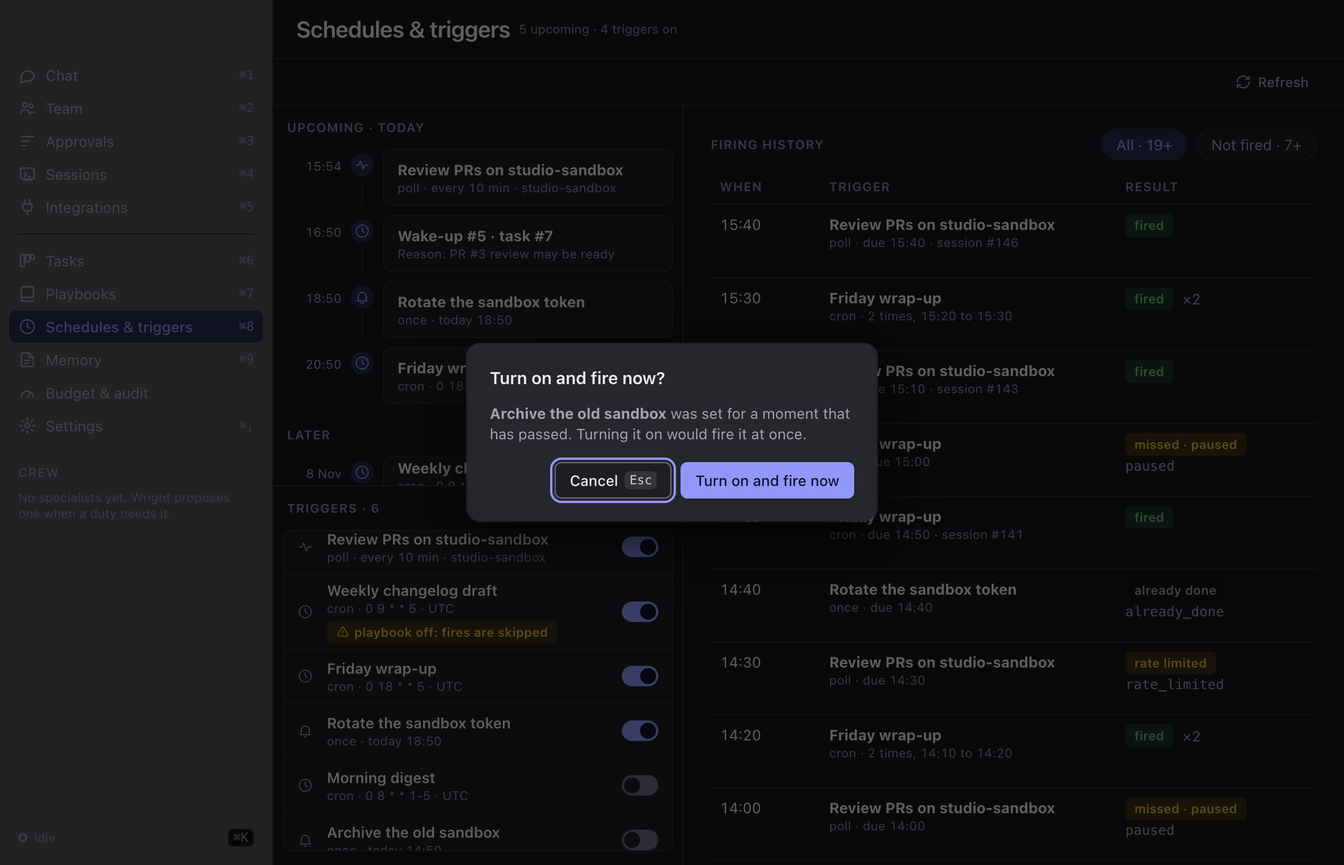
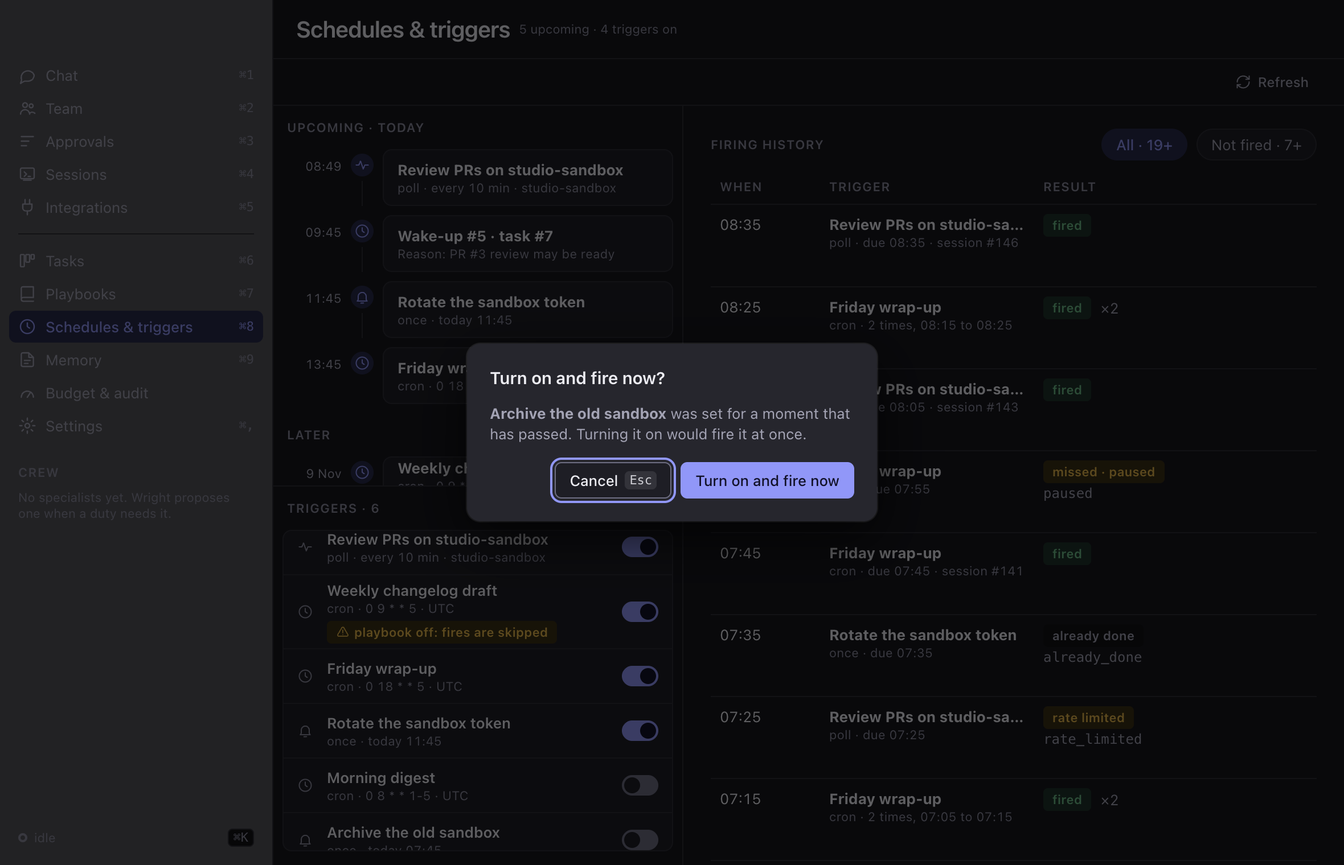
fix(app): schedules' Result chip shows its whole text at default and minimum width
The "playbook off: fires are skipped" chip was cut at the window edge:
a fixed 176px Result column, a nowrap badge and an overflow-hidden cell.
The Result column is now 248px at the default size, so the chip fits on
one line. Below 1140px the When/Result columns and the padding shrink,
the chip wraps inside a scoped .schedules-result .badge override, and
rows are a fixed 104px, so the table fits its pane at 900x560. A refetch
still moves no row.

The e2e spec measures every chip inside its cell and the window, light
and dark, at both sizes. It checks header/column alignment and that no
row moves on a count change at 900px. The evidence adds the
populated-skipped and populated-skipped-min pairs (18 files).

Closes 2026-11-02-schedules-result-chip-fits-its-column

diff --git a/app/e2e/schedules.spec.ts b/app/e2e/schedules.spec.ts
@@ -36,8 +36,8 @@ import { SCHEDULES_TEST_IDS as IDS } from "../src/screens/schedules/model";
 const EVIDENCE_DIR = fileURLToPath(new URL("../../docs/evidence/phase-7-polish/schedules/", import.meta.url));
 const README = join(EVIDENCE_DIR, "README.md");
 const THEMES = ["light", "dark"] as const;
-/** The mockup's states (`schedules-<state>`) and the two this screen adds to them, as the file names have them. */
-const STATES = ["empty", "loading", "populated", "not-fired", "confirm", "error", "unreachable"] as const;
+/** The mockup's states (`schedules-<state>`) and the ones this screen adds to them (the confirm, and the skipped fires' chip at the default and the minimum window size), as the file names have them. */
+const STATES = ["empty", "loading", "populated", "populated-skipped", "populated-skipped-min", "not-fired", "confirm", "error", "unreachable"] as const;
 
 /** When this run began, for the guard that the tracked evidence dir is untouched without `SCHEDULES_EVIDENCE`. */
 const RUN_START = Date.now();
@@ -125,6 +125,129 @@ async function boxes(page: Page, id: string): Promise<(({ x: number; y: number; 
 }
 
 const switchNamed = (page: Page, name: string): Locator => page.getByRole("switch", { name });
+
+/** Resize the already-launched window (the same path as `settings.spec.ts`) and wait until the page has that inner size. */
+async function resizeWindow(page: Page, width: number, height: number): Promise<void> {
+  await app?.evaluate(({ BrowserWindow }, size) => BrowserWindow.getAllWindows()[0]?.setSize(size.width, size.height), { width, height });
+  await expect.poll(() => page.evaluate(() => [window.innerWidth, window.innerHeight]), { message: `the window is ${width}x${height}` }).toEqual([width, height]);
+  await settle(page);
+}
+
+/** Page the all-triggers history twice, so the poll's four `playbook_not_enabled` misses (page two of the fixture) are rows. */
+async function pageToSkipped(page: Page): Promise<Locator> {
+  for (const shown of ["All · 23+", "All · 36+"]) {
+    await byId(page, IDS.loadOlder).click();
+    await expect(byId(page, IDS.filterAll)).toHaveText(shown);
+  }
+  const skipped = byId(page, IDS.allFire).and(page.locator('[data-reason="playbook_not_enabled"]'));
+  await expect(skipped.first().getByTestId(IDS.fireBadge)).toHaveText("playbook off: fires are skipped");
+  return skipped;
+}
+
+interface ChipReport {
+  /** The `.badge` elements measured (one per `IDS.fireBadge`). */
+  readonly measured: number;
+  /** Of those, the ones on a `playbook_not_enabled` row. */
+  readonly skipped: number;
+  readonly problems: string[];
+}
+
+/**
+ * The chip checks on the `.badge` inside every `IDS.fireBadge` on screen (both tables): the badge shows its whole text
+ * (no scroll overflow, no ellipsis, the text's `Range` and the badge's box inside the `td`'s box), its `td` ends inside the
+ * window, its row is no taller than the table's shortest (rows keep their fixed height), and the recorded-reason line under it (when there is one) is inside the same cell and does not overlap the badge.
+ */
+async function chipReport(page: Page): Promise<ChipReport> {
+  return page.evaluate(
+    ({ badgeId, reasonId }) => {
+      const problems: string[] = [];
+      let measured = 0;
+      let skipped = 0;
+      const within = (inner: DOMRect, outer: DOMRect) => inner.left >= outer.left - 0.5 && inner.right <= outer.right + 0.5 && inner.top >= outer.top - 0.5 && inner.bottom <= outer.bottom + 0.5;
+      for (const wrapper of document.querySelectorAll(`[data-testid="${badgeId}"]`)) {
+        const badge = wrapper.querySelector<HTMLElement>(".badge");
+        const cell = wrapper.closest("td");
+        const row = wrapper.closest("tr");
+        if (badge === null || cell === null || row === null) {
+          problems.push("a fire badge has no .badge, td or tr");
+          continue;
+        }
+        measured += 1;
+        const reason = row.getAttribute("data-reason") ?? "";
+        if (reason === "playbook_not_enabled") skipped += 1;
+        const name = `${row.getAttribute("data-kind")}/${reason || "-"} "${badge.textContent?.trim() ?? ""}"`;
+        const box = badge.getBoundingClientRect();
+        const cellBox = cell.getBoundingClientRect();
+        if (badge.scrollWidth > badge.clientWidth || badge.scrollHeight > badge.clientHeight) problems.push(`${name}: the badge scrolls (${badge.scrollWidth}x${badge.scrollHeight} in ${badge.clientWidth}x${badge.clientHeight})`);
+        if (getComputedStyle(badge).textOverflow === "ellipsis") problems.push(`${name}: the badge ends its text in an ellipsis`);
+        const range = document.createRange();
+        range.selectNodeContents(badge);
+        if (!within(range.getBoundingClientRect(), cellBox)) problems.push(`${name}: the text is outside its cell`);
+        if (!within(box, cellBox)) problems.push(`${name}: the badge is outside its cell`);
+        if (cellBox.right > window.innerWidth + 0.5) problems.push(`${name}: the cell ends at ${cellBox.right}, past the window's ${window.innerWidth}`);
+        // Rows are a fixed height (a row is only as tall as that height unless its content outgrows it), so a row taller than the shortest in its table is a chip that did not fit its row.
+        const rowHeights = [...(row.closest("tbody")?.querySelectorAll("tr") ?? [])].map((r) => r.getBoundingClientRect().height);
+        if (row.getBoundingClientRect().height > Math.min(...rowHeights) + 0.5) problems.push(`${name}: the row is ${row.getBoundingClientRect().height}px tall, taller than the table's shortest row (${Math.min(...rowHeights)}px)`);
+        const line = row.querySelector<HTMLElement>(`[data-testid="${reasonId}"]`);
+        if (line !== null) {
+          const lineBox = line.getBoundingClientRect();
+          if (!within(lineBox, cellBox)) problems.push(`${name}: the reason line is outside its cell`);
+          if (lineBox.top < box.bottom - 0.5 && lineBox.bottom > box.top + 0.5 && lineBox.left < box.right && lineBox.right > box.left) problems.push(`${name}: the reason line overlaps the badge`);
+        }
+      }
+      return { measured, skipped, problems };
+    },
+    { badgeId: IDS.fireBadge, reasonId: IDS.fireReason },
+  );
+}
+
+/** What each header cell shares with its column: for each of When, Trigger and Result, every cell's left and right x differ from the header's by no more than half a pixel. */
+async function columnMisalignments(page: Page): Promise<string[]> {
+  return page.evaluate((tableId) => {
+    const table = document.querySelector(`[data-testid="${tableId}"]`);
+    const problems: string[] = [];
+    const heads = [...(table?.querySelectorAll("thead th") ?? [])];
+    if (heads.length !== 3) return [`the table has ${heads.length} header cells, not 3`];
+    const rows = [...(table?.querySelectorAll("tbody tr") ?? [])];
+    if (rows.length === 0) return ["the table has no rows"];
+    heads.forEach((th, column) => {
+      const head = th.getBoundingClientRect();
+      for (const row of rows) {
+        const cell = row.children[column]?.getBoundingClientRect();
+        if (cell === undefined) problems.push(`a row has no cell ${column}`);
+        else if (Math.abs(cell.left - head.left) > 0.5 || Math.abs(cell.right - head.right) > 0.5) problems.push(`${th.textContent}: header ${head.left}-${head.right}, cell ${cell.left}-${cell.right}`);
+      }
+    });
+    return problems;
+  }, IDS.table);
+}
+
+/** The `Page`'s two themes, one after the other (reset to the app's own afterwards), each `settle`d. */
+async function inEachTheme(page: Page, check: (theme: (typeof THEMES)[number]) => Promise<void>): Promise<void> {
+  for (const theme of THEMES) {
+    await setTheme(page, theme);
+    await settle(page);
+    await check(theme);
+  }
+  await setTheme(page, undefined);
+}
+
+/** The pane and table fit checks of the minimum window: no horizontal scroll, the table inside its parent, and a Trigger column that still reads. */
+async function paneFit(page: Page): Promise<{ readonly paneScroll: number; readonly paneClient: number; readonly tableWidth: number; readonly parentClient: number; readonly triggerHead: number; readonly names: number[] }> {
+  return page.evaluate((tableId) => {
+    const table = document.querySelector<HTMLElement>(`[data-testid="${tableId}"]`);
+    const pane = table?.closest<HTMLElement>(".schedules-pane");
+    if (table === null || table === undefined || pane === null || pane === undefined || table.parentElement === null) throw new Error("no table in a .schedules-pane");
+    return {
+      paneScroll: pane.scrollWidth,
+      paneClient: pane.clientWidth,
+      tableWidth: table.offsetWidth,
+      parentClient: table.parentElement.clientWidth,
+      triggerHead: table.querySelectorAll("thead th")[1]?.getBoundingClientRect().width ?? 0,
+      names: [...table.querySelectorAll("tbody tr td:nth-child(2) b")].map((b) => b.getBoundingClientRect().width),
+    };
+  }, IDS.table);
+}
 
 // ---- AC1: the timeline ---------------------------------------------------------------------------------------
 
@@ -618,6 +741,110 @@ test("AC7: a trigger_fired and a wakeup_scheduled event update the timeline and 
   fx.toggleElsewhere(5);
   await expect(switchNamed(page, "Morning digest trigger is on")).toHaveAttribute("aria-checked", "true");
   await expect(byId(page, IDS.entry)).toHaveCount(7);
+});
+
+// ---- The Result chip fits its column (phase 7 polish, item 25) ---------------------------------------------------------
+
+test("AC1 (item 25): at the default window size every Result chip shows its whole text inside its cell, light and dark, in the all-triggers table and in the poll's own history", async ({}, testInfo) => {
+  const { page } = await openPopulated();
+  expect(await page.evaluate(() => [window.innerWidth, window.innerHeight]), "the default window size (main.ts)").toEqual([1180, 760]);
+  const skipped = await pageToSkipped(page);
+  const skippedRows = await skipped.count();
+  expect(skippedRows, "the history shows playbook_not_enabled rows").toBeGreaterThan(0);
+  await inEachTheme(page, async (theme) => {
+    const report = await chipReport(page);
+    expect(report.measured, `${theme}: every row of the all-triggers table has a chip to measure`).toBe(await byId(page, IDS.allFire).count());
+    expect(report.skipped, `${theme}: the playbook_not_enabled rows are among those measured`).toBe(skippedRows);
+    expect(report.problems, `${theme}: no chip is clipped`).toEqual([]);
+    for (const row of await skipped.all()) await expect(row.getByTestId(IDS.fireReason), "the recorded reason is still under the chip").toHaveText("playbook_not_enabled");
+  });
+  expect(await columnMisalignments(page), "the columns line up with their headers").toEqual([]);
+  await skipped.first().scrollIntoViewIfNeeded();
+  await screenshots(page, "populated-skipped", testInfo);
+
+  // The poll's own history: its four skipped polls are one row with a count, "×4", beside the chip.
+  await page.getByTestId(IDS.select).filter({ hasText: "Review PRs on studio-sandbox" }).click();
+  await expect(byId(page, IDS.detailName)).toHaveText("Review PRs on studio-sandbox");
+  await byId(page, IDS.loadOlder).click();
+  await expect(byId(page, IDS.filterAll)).toHaveText("All · 20+");
+  const own = byId(page, IDS.fire).and(page.locator('[data-reason="playbook_not_enabled"]'));
+  await expect(own).toHaveCount(1);
+  await expect(own).toContainText("×4");
+  await inEachTheme(page, async (theme) => {
+    const report = await chipReport(page);
+    expect(report.measured, `${theme}: every row of the poll's table has a chip to measure`).toBe(await byId(page, IDS.fire).count());
+    expect(report.skipped, `${theme}: the skipped row is among them`).toBe(1);
+    expect(report.problems, `${theme}: no chip is clipped`).toEqual([]);
+  });
+  expect(await columnMisalignments(page), "the columns line up with their headers").toEqual([]);
+});
+
+test("AC2 (item 25): at the minimum window size (900x560) no Result chip is clipped, the table fits its pane, and the Trigger column keeps a usable width, light and dark", async ({}, testInfo) => {
+  const { page } = await openPopulated();
+  await resizeWindow(page, 900, 560);
+  const skipped = await pageToSkipped(page);
+  const skippedRows = await skipped.count();
+  expect(skippedRows, "the history shows playbook_not_enabled rows").toBeGreaterThan(0);
+  await inEachTheme(page, async (theme) => {
+    const report = await chipReport(page);
+    expect(report.measured, `${theme}: every row of the all-triggers table has a chip to measure`).toBe(await byId(page, IDS.allFire).count());
+    expect(report.skipped, `${theme}: the playbook_not_enabled rows are among those measured`).toBe(skippedRows);
+    expect(report.problems, `${theme}: no chip is clipped`).toEqual([]);
+    const fit = await paneFit(page);
+    expect(fit.paneScroll, `${theme}: the pane has no horizontal scroll`).toBeLessThanOrEqual(fit.paneClient);
+    expect(fit.tableWidth, `${theme}: the table fits its parent`).toBeLessThanOrEqual(fit.parentClient);
+    expect(fit.triggerHead, `${theme}: the Trigger column keeps a usable width`).toBeGreaterThanOrEqual(96);
+    expect(fit.names.length).toBeGreaterThan(0);
+    for (const width of fit.names) expect(width, `${theme}: a trigger name has width`).toBeGreaterThan(0);
+  });
+  await skipped.first().scrollIntoViewIfNeeded();
+  await screenshots(page, "populated-skipped-min", testInfo);
+
+  // The poll's own history at this size: the "×4" row, chip and count side by side.
+  await page.getByTestId(IDS.select).filter({ hasText: "Review PRs on studio-sandbox" }).click();
+  await expect(byId(page, IDS.detailName)).toHaveText("Review PRs on studio-sandbox");
+  await byId(page, IDS.loadOlder).click();
+  await expect(byId(page, IDS.filterAll)).toHaveText("All · 20+");
+  await expect(byId(page, IDS.fire).and(page.locator('[data-reason="playbook_not_enabled"]'))).toContainText("×4");
+  await inEachTheme(page, async (theme) => {
+    const report = await chipReport(page);
+    expect(report.skipped, `${theme}: the skipped row is measured`).toBe(1);
+    expect(report.problems, `${theme}: no chip is clipped`).toEqual([]);
+    const fit = await paneFit(page);
+    expect(fit.paneScroll, `${theme}: the pane has no horizontal scroll`).toBeLessThanOrEqual(fit.paneClient);
+    expect(fit.tableWidth, `${theme}: the table fits its parent`).toBeLessThanOrEqual(fit.parentClient);
+    expect(fit.triggerHead, `${theme}: the Trigger column keeps a usable width`).toBeGreaterThanOrEqual(96);
+    for (const width of fit.names) expect(width, `${theme}: a trigger name has width`).toBeGreaterThan(0);
+  });
+});
+
+test("AC3 (item 25): each header cell shares its left and right x with its column's cells at the default and the minimum window size, with a skipped row shown", async () => {
+  const { page } = await openPopulated();
+  await pageToSkipped(page);
+  for (const [width, height] of [[1180, 760], [900, 560]] as const) {
+    await resizeWindow(page, width, height);
+    await inEachTheme(page, async (theme) => {
+      expect(await columnMisalignments(page), `${theme} at ${width}px: the columns line up with their headers`).toEqual([]);
+    });
+  }
+});
+
+test("AC3 (item 25): at the minimum window size a refetch that raises a shown row's count moves no row already shown, a skipped row included", async () => {
+  const { fx, page } = await openPopulated();
+  await resizeWindow(page, 900, 560);
+  await pageToSkipped(page);
+  await settle(page);
+  const before = await boxes(page, IDS.allFire);
+  expect(before.length, "the paged history has rows with boxes").toBeGreaterThan(15);
+  expect(before.every((b) => b !== null)).toBe(true);
+  const top = byId(page, IDS.allFire).first();
+  await expect(top).toHaveAttribute("data-count", "1");
+  fx.fireOnPoll();
+  // The poll's new fire joins the top fired row: its count goes 1 -> 2 and its "×2" appears.
+  await expect(top).toHaveAttribute("data-count", "2");
+  await expect(top).toContainText("×2");
+  await settle(page);
+  expect(await boxes(page, IDS.allFire), "no history row already shown moved or resized").toEqual(before);
 });
 
 // ---- AC8: names, and tokens only ---------------------------------------------------------------------------------------

diff --git a/app/src/screens/schedules/schedules.css b/app/src/screens/schedules/schedules.css
@@ -1,8 +1,8 @@
 /* Schedules & triggers (phase 7 item 05): docs/design/mockups/gui-v2.html (`schedulesScreen`, and the
    "Timeline (Schedules)" block of its style) on the tokens. Colour comes only from tokens.css custom properties.
    Focus keeps the shell's ring (`:focus-visible` in app.css): nothing here removes it.
-   History rows are a fixed height (a line of text clips with an ellipsis), so a refetch that changes a count
-   or a time changes text inside a row and moves nothing. A title (an upcoming entry's, a trigger row's) wraps to
+   History rows are a fixed height (a line of text clips with an ellipsis, a Result chip wraps to as many lines as the
+   height holds), so a refetch that changes a count or a time changes text inside a row and moves nothing. A title (an upcoming entry's, a trigger row's) wraps to
    two lines and is clamped with an ellipsis after that (`.schedules-clamp`; the element carries its full text as
    a `title`); its row is as tall as its content, which a refetch does not change. */
 
@@ -419,7 +419,7 @@
   width: 96px;
 }
 .schedules-c3 {
-  width: 176px;
+  width: 248px;
 }
 .schedules-table th {
   padding: var(--space-2);
@@ -433,7 +433,7 @@
   color: var(--ink-tertiary);
 }
 .schedules-fire {
-  height: 64px;
+  height: 72px;
 }
 .schedules-fire:focus-visible {
   outline-offset: -2px;
@@ -458,6 +458,25 @@
   display: flex;
   align-items: center;
   gap: var(--space-2);
+}
+/* The Result chip wraps inside its cell instead of being cut off by it: the badge never wraps on its own (`Badge.css`
+   is shared and stays as it is), so this override is scoped to the history table. The chip shrinks, the "×N" count
+   does not, and the row keeps its fixed height. */
+.schedules-table .schedules-result > span:first-child {
+  min-width: 0;
+}
+.schedules-table .schedules-result .badge {
+  box-sizing: border-box;
+  height: auto;
+  min-height: 20px;
+  padding-top: 3px;
+  padding-bottom: 3px;
+  max-width: 100%;
+  white-space: normal;
+  overflow-wrap: anywhere;
+}
+.schedules-table .schedules-result > .schedules-count {
+  flex: none;
 }
 .schedules-count {
   color: var(--ink-secondary);
@@ -554,6 +573,30 @@
 }
 .schedules-skel i:nth-child(3) {
   width: 40%;
+}
+
+/* A narrow window (down to the 900px minimum): the list pane keeps its width, so the history table has about 250px.
+   When shrinks (a time wraps to two lines), the Result column takes what the Trigger column (kept above 96px) leaves,
+   the detail pane's padding and the cells' padding are tighter, and the fixed row is tall enough for a chip of four
+   lines above its reason. */
+@media (max-width: 1139px) {
+  .schedules-pane > .schedules-pad {
+    padding-left: var(--space-3);
+    padding-right: var(--space-3);
+  }
+  .schedules-c1 {
+    width: 52px;
+  }
+  .schedules-c3 {
+    width: 112px;
+  }
+  .schedules-table th,
+  .schedules-fire td {
+    padding: var(--space-2) var(--space-1);
+  }
+  .schedules-fire {
+    height: 104px;
+  }
 }
 
 @media (prefers-reduced-motion: reduce) {

diff --git a/docs/evidence/phase-7-polish/schedules/README.md b/docs/evidence/phase-7-polish/schedules/README.md
@@ -1,6 +1,6 @@
 # Schedules & triggers screen evidence (phase 7 items 05 and 16)
 
-These are screenshots of the built app's Schedules & triggers screen in every state the GUI v2 mockup shows for it, plus the history's "Not fired" filter and the confirm dialog, each in light and dark mode (14 files). Each one was taken by `app/e2e/schedules.spec.ts` against the fixture kernel, with the canned data in `app/e2e/fixtures/schedules.ts`. Every name, repo and task in them is a fixture value (`studio-sandbox`, a wake-up "PR #3 review may be ready"), so none of it is real data. The times are relative to the moment of capture (the poll's next fire is four minutes ahead, the wake-up an hour), so they differ from the mockup's fixed clock. Item 16 regenerated all 14 files: the firing history is now the history of every trigger, one trigger on the screen is a trigger that is on whose playbook is off, and the count line moved to the title bar.
+These are screenshots of the built app's Schedules & triggers screen in every state the GUI v2 mockup shows for it, plus the history's "Not fired" filter and the confirm dialog, each in light and dark mode (18 files). Each one was taken by `app/e2e/schedules.spec.ts` against the fixture kernel, with the canned data in `app/e2e/fixtures/schedules.ts`. Every name, repo and task in them is a fixture value (`studio-sandbox`, a wake-up "PR #3 review may be ready"), so none of it is real data. The times are relative to the moment of capture (the poll's next fire is four minutes ahead, the wake-up an hour), so they differ from the mockup's fixed clock. Item 16 regenerated all 14 files: the firing history is now the history of every trigger, one trigger on the screen is a trigger that is on whose playbook is off, and the count line moved to the title bar. Phase 7 polish item 25 regenerated them again for the history's Result chip, which now fits its column, and added the `populated-skipped` and `populated-skipped-min` pairs (18 files).
 
 To regenerate the screenshots (macOS):
 
@@ -10,7 +10,7 @@ cd app && npm run build && SCHEDULES_EVIDENCE=1 npx playwright test e2e/schedule
 
 `SCHEDULES_EVIDENCE=1 npm run e2e` writes the same files, and also rewrites other screens' tracked screenshots, whose pixels change a little on every run; use the command above to regenerate these alone.
 
-Without `SCHEDULES_EVIDENCE=1` the spec writes its screenshots to Playwright's per-test output directory, so CI never changes these files, and one of its tests fails if any file in this directory is newer than the run's start. Another test fails if this README stops naming a light and a dark file for a state, or if a file here is not named. The spec checks behaviour and never compares pixels, because fonts differ between macOS and the Ubuntu CI run. All 14 files were captured on macOS on 2026-11-01.
+Without `SCHEDULES_EVIDENCE=1` the spec writes its screenshots to Playwright's per-test output directory, so CI never changes these files, and one of its tests fails if any file in this directory is newer than the run's start. Another test fails if this README stops naming a light and a dark file for a state, or if a file here is not named. The spec checks behaviour and never compares pixels, because fonts differ between macOS and the Ubuntu CI run. All 18 files were captured on macOS on 2026-11-02.
 
 ## Screenshots
 
@@ -21,6 +21,8 @@ The "Mockup view" column names the view of `docs/design/mockups/gui-v2.html` eac
 | [light](schedules-empty-light.png) / [dark](schedules-empty-dark.png) | `schedules-empty` | "Nothing is scheduled." with the note that Studio ships no triggers, and the one action, Ask Wright to schedule something. |
 | [light](schedules-loading-light.png) / [dark](schedules-loading-dark.png) | `schedules-loading` | The schedule route held open by the fixture: four skeleton rows, `aria-busy`, and a status line "Loading the schedule" for a screen reader. |
 | [light](schedules-populated-light.png) / [dark](schedules-populated-dark.png) | `schedules-populated` | The count line "5 upcoming · 4 triggers on" beside the title in the title bar. The left pane headed "Upcoming · Today" with the entries due today in the order the route sends (a poll, a wake-up, a once, a cron) and, under "Later" in the same region, the rest (the weekly cron, a week away). "Triggers · 6" with a switch each (the disabled ones off and not on the timeline), and "playbook off: fires are skipped" under "Weekly changelog draft", the trigger that is on whose playbook `weekly-changelog` is off, on its row and in the upcoming list. On the right the "Firing history" of every trigger, merged newest first by event id with each row naming its trigger: the poll's, "Friday wrap-up"'s and "Rotate the sandbox token"'s fires interleaved, repeats of one trigger folded to "×2", and "All · 19+" / "Not fired · 7+". |
+| [light](schedules-populated-skipped-light.png) / [dark](schedules-populated-skipped-dark.png) | `schedules-populated` (the mockup has no playbook-off chip in its history) | The same history of every trigger at the default window size (1180x760), paged twice with "Load older" and scrolled to the poll's first `playbook_not_enabled` row: the whole chip "playbook off: fires are skipped" on one line inside its Result cell, "playbook_not_enabled" beneath it, and the "×3" of a repeat beside it. |
+| [light](schedules-populated-skipped-min-light.png) / [dark](schedules-populated-skipped-min-dark.png) | `schedules-populated` (the mockup has no playbook-off chip in its history) | The same rows at the window's minimum size (900x560): the detail pane is about 250px wide, so the When column is narrower, the Result column is 112px and the chip wraps to several lines (whole, never cut), the reason line is cut with an ellipsis, and the table fits its pane. |
 | [light](schedules-not-fired-light.png) / [dark](schedules-not-fired-dark.png) | the history's "Not fired" filter in `schedules-populated` (`S.hf = 'missed'`, also the palette's "Show missed fires") | The same history of every trigger with the "Not fired" chip pressed: only the missed rows, each with its reason code beneath. |
 | [light](schedules-confirm-light.png) / [dark](schedules-confirm-dark.png) | no mockup view (the requirement's confirm for a past `once` trigger) | The dialog after the kernel answered `409 needs_confirmation` to turning on "Archive the old sandbox": it says turning it on would fire it at once, Cancel has focus and the `Esc` chip, and the primary reads "Turn on and fire now". |
 | [light](schedules-error-light.png) / [dark](schedules-error-dark.png) | `schedules-error` | The route-failure card: "Couldn't load the schedule", "the schedule request failed (500)", the detail `GET /schedule · 500 · store_unreadable`, and Try again. No kernel band above it: the kernel answered. |
@@ -65,6 +67,7 @@ Every status carries text as well as colour (each badge has a label, a repeat ha
 | Unreachable (AC5, item 16's AC1) | The fixture kernel is stopped: the shell's one band shows, the timeline, trigger list and history stay, the title bar's line says "last known", every switch, Refresh and Load older is disabled with "Needs the kernel", no request text is drawn, the filter still works and the window logs no page error. Leaving the screen and coming back while stopped still shows the last data (never "Status unknown"); after `fixture.restart()` the screen reads `GET /schedule` again by itself and the mark goes away. |
 | Keyboard (AC6) | J and K move between the triggers and between the history's rows; Enter opens a trigger; the Integrations link is followed with Enter; the confirm is reached with Space and left with Escape. |
 | Live (AC7) | A `trigger_fired` and a `wakeup_scheduled` event from the fixture update the timeline and the open history with no reload and no skeleton; the boxes of the timeline entries, the trigger rows, the history rows and the detail pane already shown are identical before and after. A `trigger_toggled` from elsewhere flips the switch and adds the trigger to the timeline. |
+| Result chip (item 25) | Every `.badge` in the history (the all-triggers table and the poll's own history, with the `playbook_not_enabled` rows paged in) shows its whole text inside its cell at 1180x760 and at 900x560, in light and dark: no scroll overflow, no ellipsis, its text and box inside its `td`, the `td` inside the window, the reason line inside the cell and clear of the chip; at 900x560 the pane has no horizontal scroll, the table fits its parent and the Trigger column is at least 96px; each header cell shares its left and right x with its column's cells; a refetch that raises a count moves no row already shown at 900x560. |
 | Names (AC8) | Every switch, chip, button and badge has an accessible name or text; the lists, table and groups are labelled; every `<time>` carries its instant. |
 
 Two things made the AC7 check fail and were fixed or reverted. On its first run the timeline and the trigger list shared one scrolling column, and a new timeline entry pushed the trigger rows down 58 px; that is why the left pane is now two regions of equal height that scroll on their own. Then, as a pin mutation, the schedule read was made to clear the held data at the start of every refetch (the screen flashes its loading state): the check failed with "the screen never flashed a loading state" and the change was reverted.
@@ -83,12 +86,12 @@ Two things made the AC7 check fail and were fixed or reverted. On its first run 
 - **A Refresh button, and "Not fired · 7+".** The toolbar has a Refresh button (the palette's "Refresh schedule", reachable without ⌘K); while older pages exist the chip counts say "10+" because the count is of the fires loaded.
 - **The unreachable view shows the shell's band only.** The mockup's band has a "Kernel log" link; the shell's shared band has none. The screen draws its own band only when its own read answered status 0 before the shell noticed, so exactly one band is on screen.
 - **The confirm dialog is the design system's `decision` Dialog** (Cancel with the `Esc` chip, a primary "Turn on and fire now"), because the mockup has no view for it. It is not a destructive confirm, so Escape closes it.
-- **Row text clips.** History rows have a fixed height so a refetch moves nothing; a long name ends in an ellipsis. Timeline entries and trigger rows are as tall as their content (two-line titles, the playbook-off note), which a refetch does not change.
+- **Row text clips, a Result chip wraps.** History rows have a fixed height so a refetch moves nothing; a long name and the recorded reason end in an ellipsis, but a Result chip never does: "playbook off: fires are skipped" is one line at the default window size and wraps to up to four lines at the 900px minimum, where the row is taller (104px, against 72px) and the When and Result columns are narrower. The mockup (`.hist .c3{width:150px}`) draws no such chip, so it shows no wrapped Result. Timeline entries and trigger rows are as tall as their content (two-line titles, the playbook-off note), which a refetch does not change.
 
 ## Limits
 
 - **The ⌘K palette and ⌘8 are not reachable in the built app.** The shell does not mount the command palette or bind the screen shortcuts (probed on 2026-10-30, as in phase 6). The screen registers "Show missed fires" and "Refresh schedule" under owner `schedules` while it is mounted and unregisters them on unmount; that is pinned in `app/src/screens/schedules/SchedulesScreen.test.tsx` (jsdom), not driven in Electron. "Show missed fires" returns to the history of every trigger, sets its filter and focuses its chip: registered while the screen is mounted, it cannot open the screen from elsewhere.
 - **The fixture's routes are the shared interface, not the kernel's.** The real routes (`kernel/src/gui/schedules.ts`) are covered by `kernel/test/gui-schedules.test.ts`; the fixture pages by 10, not the kernel's default 50, so three pages show "Load older".
-- **The unreachable capture is of a kernel that was running and went away.** With no data ever read by the window, the screen says "Status unknown" instead (pinned in jsdom). The fixture's own "playbook off" case is trigger 2, which has no fires, so a playbook-off trigger's own skipped fires are pinned in jsdom (`AllHistory.test.tsx`); the screenshots show the poll's recorded `playbook_not_enabled` misses once paged.
+- **The unreachable capture is of a kernel that was running and went away.** With no data ever read by the window, the screen says "Status unknown" instead (pinned in jsdom). The fixture's own "playbook off" case is trigger 2, which has no fires, so a playbook-off trigger's own skipped fires are pinned in jsdom (`AllHistory.test.tsx`); the `populated-skipped` and `populated-skipped-min` pairs show the poll's recorded `playbook_not_enabled` misses once paged.
 - A re-read after a restart happens when a read answered status 0 while the screen was open (for example after leaving it and coming back while the kernel was stopped), or when the feed brings a missed event; a screen that never asked while the kernel was away has its data refreshed by the events the feed replays.
 - All screenshots come from one machine (macOS). The Ubuntu CI run executes the same assertions but does not write these files.
